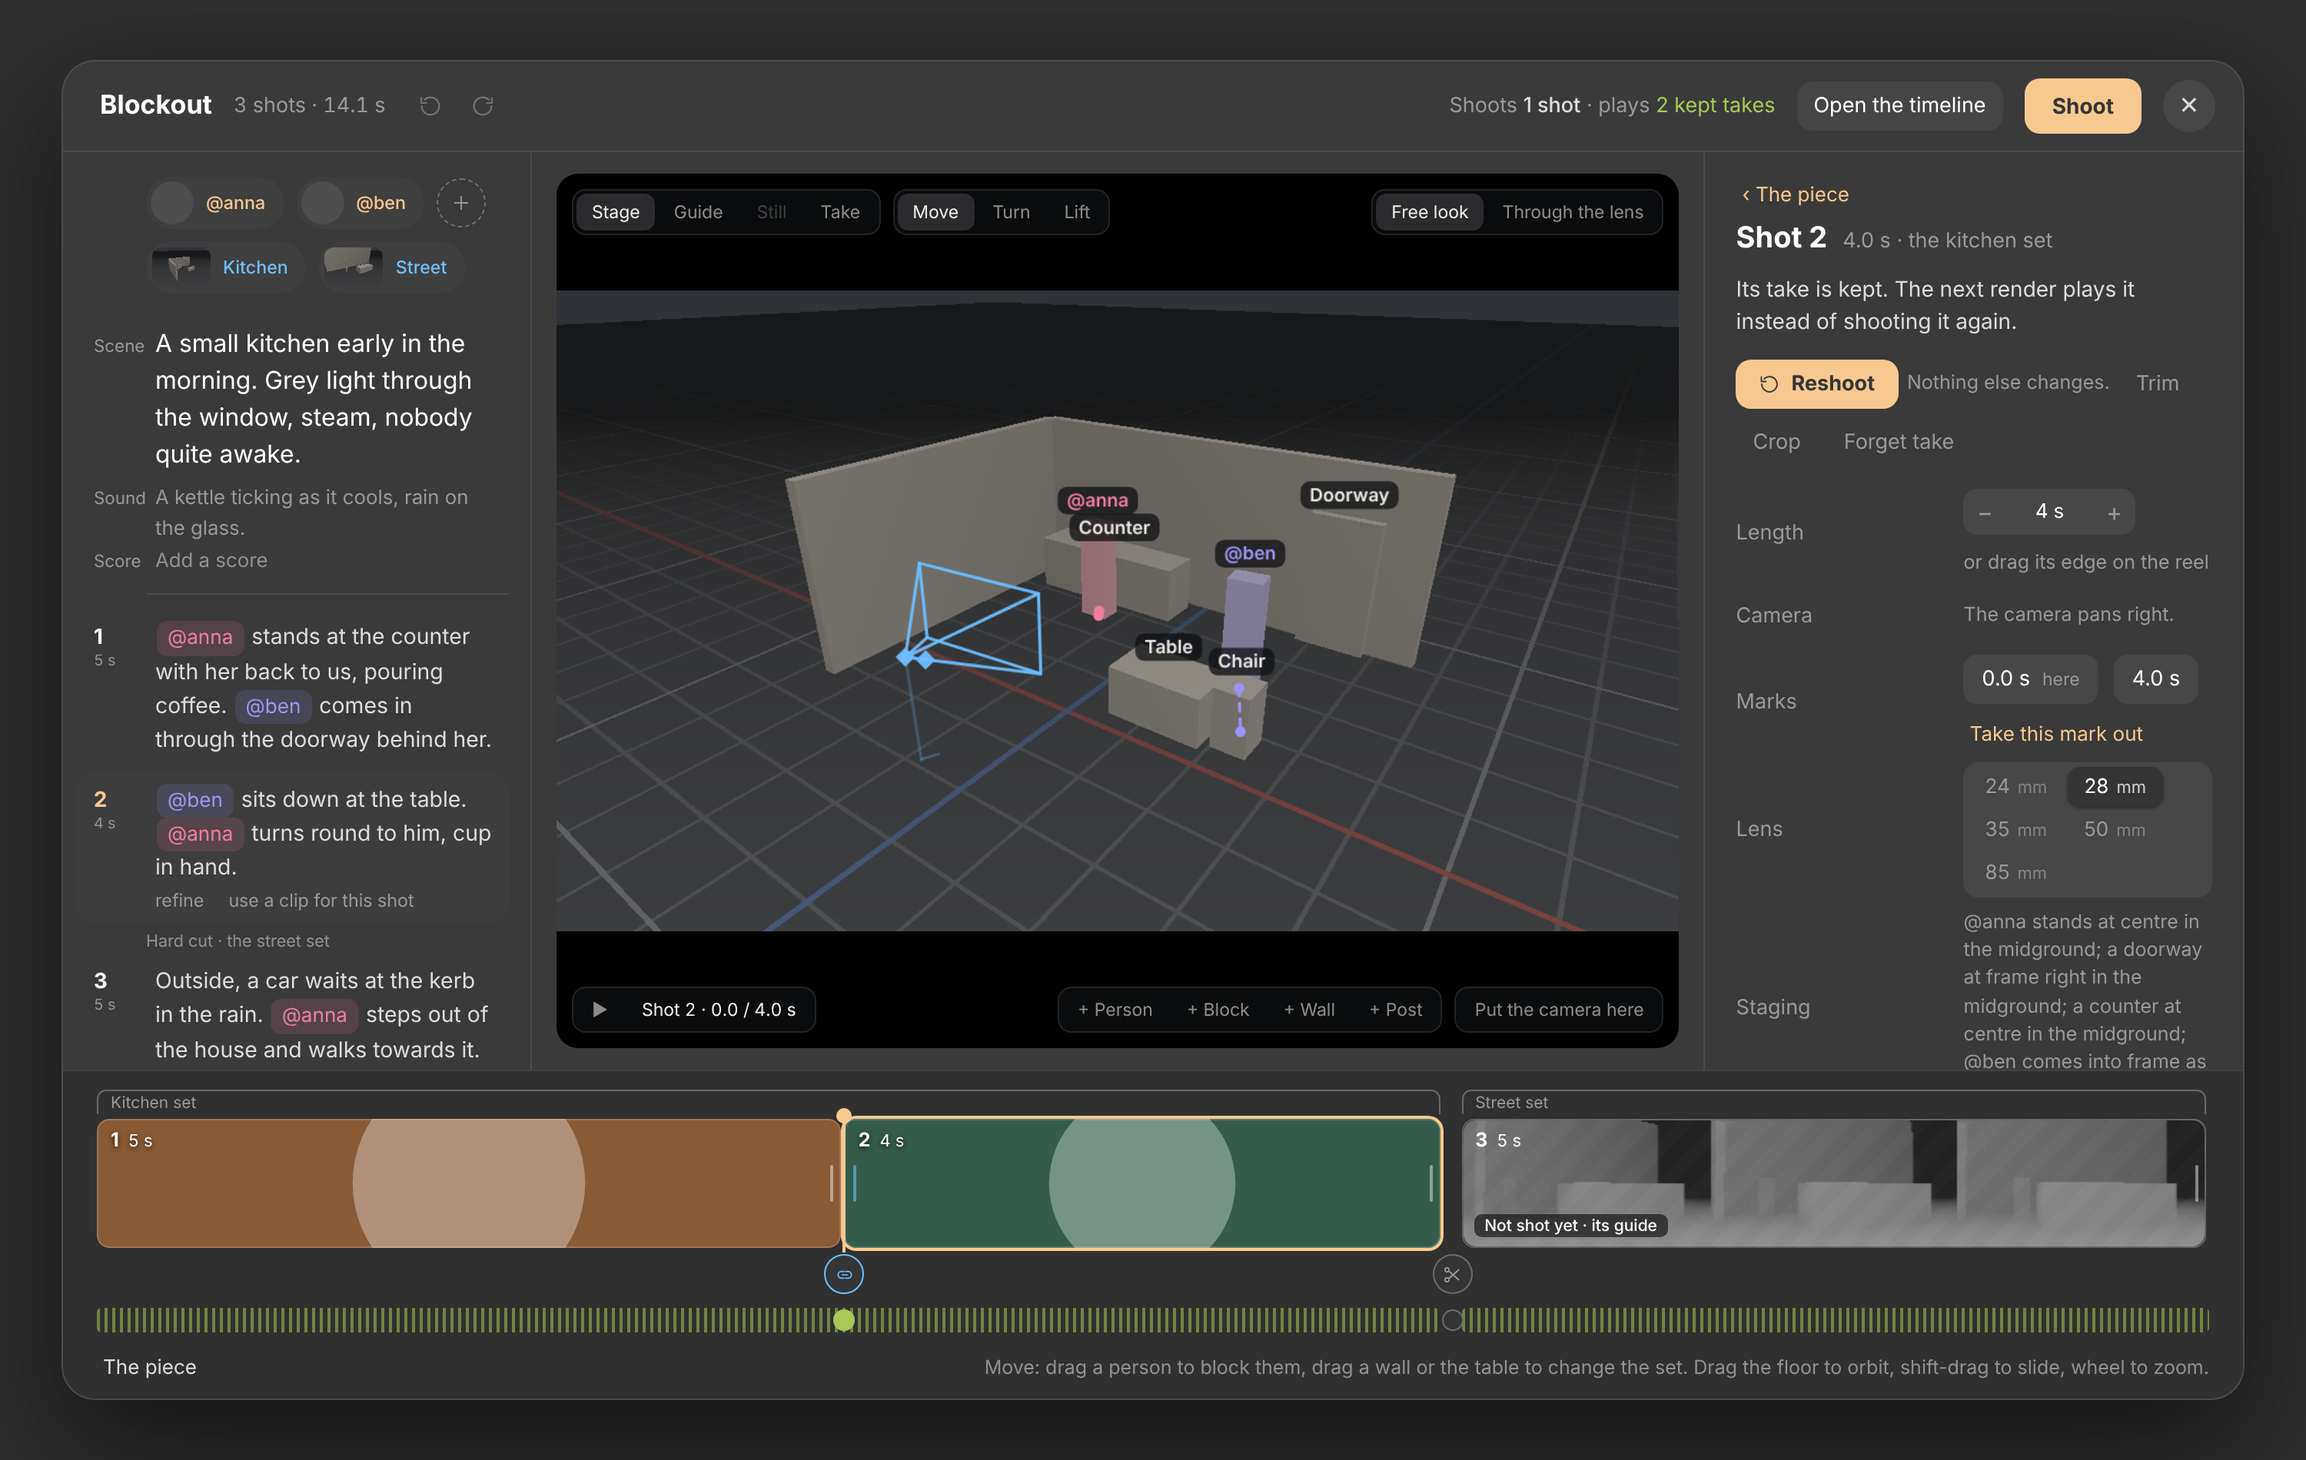
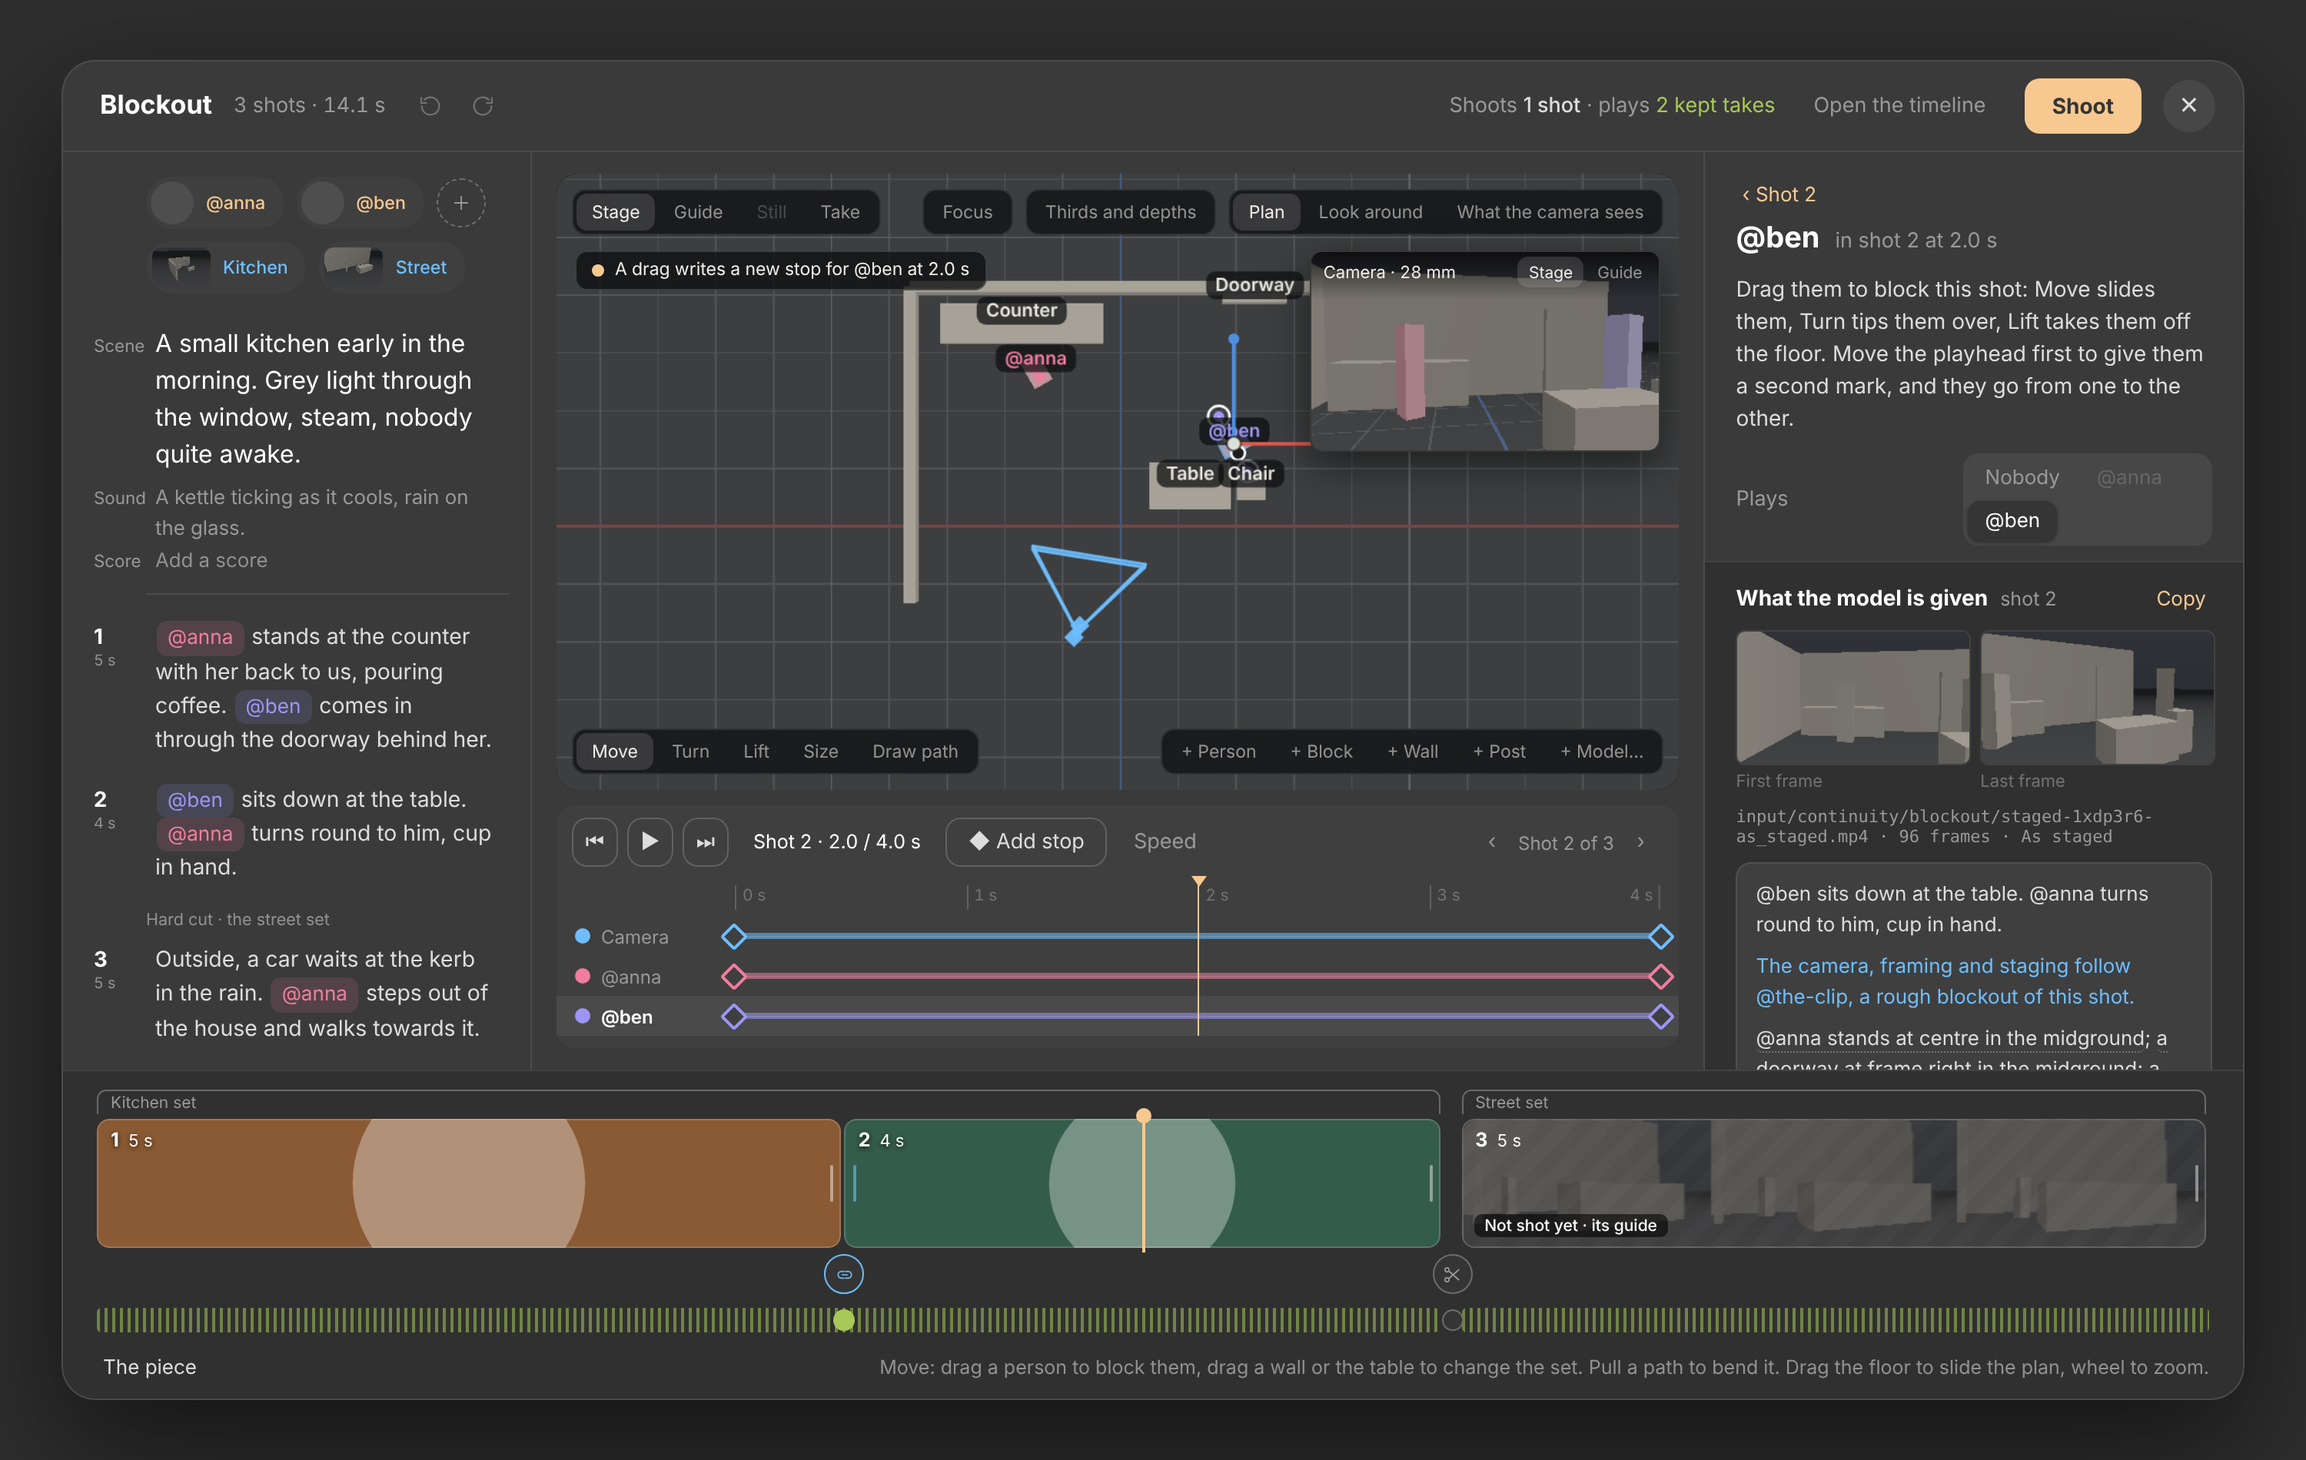
Say how the blockout is worked by hand now, and test it
The tools page, the changelog and the bench's picture follow the plan, the
sheet of stops, Draw path, the panel and the labelled pass. Browser checks
cover each, and the stale check of a grey guide on a family that is shown
its blockout as footage is replaced.

diff --git a/web/creator/styles/staging.js b/web/creator/styles/staging.js
@@ -125,11 +125,11 @@ export const css = `
 .mmc-st-sheethead .mmc-reel-btn[aria-pressed="true"] { color: var(--mmc-strong); background: var(--mmc-wash-2); }
 
 /* --- what the model is given, under the inspector ----------------------------------- */
-.mmc-st-gets { flex: none; max-height: 56%; overflow: auto; display: flex; flex-direction: column; gap: 10px; padding: 14px 20px 18px;
+.mmc-st-gets { flex: none; max-height: 50%; overflow: auto; display: flex; flex-direction: column; gap: 10px; padding: 14px 20px 18px;
   border-top: 1px solid var(--mmc-line); background: color-mix(in oklab, var(--mmc-bg) 94%, var(--mmc-media-bg)); }
 .mmc-st-gets[hidden] { display: none; }
 .mmc-st-gets > * { flex: none; }
-.mmc-st-bench .mmc-reel-inspect { min-height: 30%; }
+.mmc-st-bench .mmc-reel-inspect { min-height: 38%; }
 .mmc-st-getshead { display: flex; align-items: baseline; gap: 8px; }
 .mmc-st-getshead b { font-size: calc(14px * var(--mmc-type, 1)); color: var(--mmc-strong); }
 .mmc-st-getshead span { flex: 1; font-size: calc(12.5px * var(--mmc-type, 1)); color: var(--mmc-dim); }

diff --git a/web/creator/staging.js b/web/creator/staging.js
@@ -225,7 +225,8 @@ class Blockout extends Reel {
     const { w, h } = this.raster ? { w: this.raster.w, h: this.raster.h } : guideSize(this.timeline);
     const wide = Math.max(...xs) - Math.min(...xs), deep = Math.max(...zs) - Math.min(...zs);
     return { x: (Math.min(...xs) + Math.max(...xs)) / 2, z: (Math.min(...zs) + Math.max(...zs)) / 2,
-             span: clamp(Math.max(deep, (wide * h) / w) * 1.16 + 1, 4, 150) };
+             // Room above and below for the tools that float over the glass.
+             span: clamp(Math.max(deep, (wide * h) / w) * 1.4 + 1, 4, 150) };
   }
 
   /** The plan's camera: straight down from far above through a long lens, so

diff --git a/docs/tools.md b/docs/tools.md
@@ -57,7 +57,7 @@ blockout** comes back. Nothing selected means the piece is selected. A set is
 taken off the piece from its own page in the inspector; its shots stay, with no
 staging.
 
-![The blockout bench: the script on the left, the kitchen set on the stage with @ben selected and his handles out, his blocking in the inspector, and the piece underneath with the sets over the film and shot 3's guide on its card](img/blockout.png)
+![The blockout bench: the script on the left; the kitchen set as a floor plan with @ben selected, the shot camera's frame in the corner and the sheet of stops under it; his blocking in the inspector over what the model is given; and the piece underneath with the sets over the film and shot 3's guide on its card](img/blockout.png)
 
 No model, no download, no queue for the stage itself: the renderer is
 arithmetic in the browser, and what the glass shows in **Guide** is exactly what
@@ -94,17 +94,32 @@ people walk, names), **Guide** (the pass exactly as the file will hold it),
 yet) and **Take** (what came back, at the playhead). Play runs the shot's time;
 dragging across a shot on the strip scrubs it.
 
-**Look around** flies around the set and changes nothing: drag orbits, shift-drag
-slides, the wheel zooms. **What the camera sees** stands you in the shot camera,
-where every gesture writes a camera mark at the playhead: drag turns it,
-shift-drag moves it sideways and up, the wheel moves it forward. **Put the camera here**
-moves the shot camera to where you stand.
+The set is handled from one of three places. **Plan** is the set from above, as
+a floor plan, and is where the bench opens: drag the floor to slide it, the
+wheel zooms. **Look around** flies around the set: drag orbits, shift-drag
+slides, the wheel zooms. Neither changes anything, and in both the stage is the
+whole of the glass while the shot camera's frame stays in a **monitor** in the
+corner, as the stage or as the guide; pressing it stands you in the camera.
+**What the camera sees** is that: every gesture writes a camera stop at the
+playhead, drag turns it, shift-drag moves it sideways and up, the wheel moves it
+forward. **Put the camera here**, in Look around, moves the shot camera to where
+you stand.
+
+A **badge** on the glass says what a drag is about to do before it does it:
+move the stop the playhead is on, or write a new one where it is not; and that
+a table or a wall is the set, so moving it changes every shot staged on it.
+
+**Thirds and depths** draws the lines the staging sentence is read from: the
+two that part frame left, centre and frame right, and the two depths where the
+foreground and the midground end.
 
 Click a piece to select it; its handles hang off it. **Move** (`1`) slides it
 along the world axes or, dragged by its body, across the floor; **Turn** (`2`)
 gives it three rings that snap to 15°; **Lift** (`3`) takes it off the floor.
-Dragging a person writes a mark at the playhead, so move the playhead first to
-give them a second mark. A piece rests by itself: whichever way up it is, its
+Dragging a person writes a stop at the playhead, so move the playhead first to
+give them a second one, or use **Draw path** (`5` or `P`): each click on the
+floor is the next stop of whoever is selected, or of the camera when nobody is,
+and the stops are spread at one pace over the shot. Escape puts the tool down. A piece rests by itself: whichever way up it is, its
 lowest point sits at its height off the floor, so a figure laid flat lies on
 it. **+ Person**, **+ Block**, **+ Wall** and **+ Post** add to the set, and
 Delete takes the selection off it.
@@ -122,7 +137,8 @@ where its camera starts, with people in it and a camera move. Pressing one makes
 new set from it; everything on it can then be moved, changed or taken away.
 
 **Focus** (or F) gives the stage the whole window: the script and the strip fold
-away, the tools float over the picture, and the camera's speed lane stays under it.
+away, the tools float over the picture, and the sheet of stops stays under it, with
+the way to the shot before and the next.
 The inspector becomes a drawer that slides in when a piece or a set is picked; **I**
 or **Inspector** shows it or puts it away. Shift+F hides the browser's own bars as
 well. Escape leaves focus first, and the window opens as it was last left.
@@ -157,8 +173,16 @@ sees, in Guide and in the file; the path stays smooth. The same shot always
 shakes the same way until **Another shake**, and a shot continuing from another
 goes on with its shake.
 
-Under the glass is the **speed** of whoever is selected, or of the camera. Each
-stop keeps its time; the curve says how fast the stretch between two is taken,
+Under the glass is the **sheet of stops**: a lane for the camera, for everyone on
+the set and for whatever moves in the shot, a diamond for each stop, and one
+playhead through them all. Drag a diamond to change when; double-click a lane to
+add a stop there; press anywhere else on it to move the playhead, which snaps to
+a stop. **Add stop** (`K`) makes one at the playhead for whoever is selected, or
+the camera, and `,` and `.` step from stop to stop. The arrows at its right go
+to the shot before and the next.
+
+**Speed** opens the speed of whoever is selected, or of the camera, under the
+sheet. Each stop keeps its time; the curve says how fast the stretch between two is taken,
 and dragging a point up there slows it elsewhere, so it still arrives when it
 did. The buttons take the stretch the playhead is in: **Natural**, **Steady**,
 **Start gently**, **Stop gently**, **Rush in**, **Rush off**. **Wait until here**
@@ -168,17 +192,26 @@ else moves the playhead.
 
 ### What a shot sends
 
+Under the inspector, whatever is selected, is **What the model is given** for
+the shot on the glass: the first and the last frame of its clip as the file
+will hold them, the file, and the words. Pointing at a clause of the words
+lights the piece it is about, pressing it selects that piece, and a clause the
+last edit changed is lit for a moment. The words are read off the first and the
+last frame alone; stops in between, bends and speed reach the model only as the
+clip.
+
 | | |
 |---|---|
 | The guide | a clip along the shot camera's path, at the family's native canvas and frame grid, in the shot's pass. Written under `input/continuity/blockout/` by Shoot, named after the shot's staging so an unchanged shot reuses it, and attached as the shot's guide. Families without a ControlNet get the words alone |
-| The words | who stands where, in their posture, and how the camera moves, in the model's own words, added after the shot's prose (refined or not) |
+| The words | who stands where, in their posture, and how the camera moves, in the model's own words, added after the shot's prose (refined or not). **Words** chooses: **Yours, then the staging** is that, and **Yours only** sends the shot's prose and nothing the bench wrote about the scene, for the piece or for one shot. Where the clip is a reference video, the one line that names it stays, because a clip is only followed where the words name it |
 | How firmly | **Firmly** (1.0) or **Loosely** (0.6); a shot whose people change posture or leave the floor suggests loose |
 
-Four passes, the ControlNet bench's own names:
+Five passes, four of them the ControlNet bench's own names:
 
 | Pass | What it writes |
 |---|---|
 | As staged | no tracing, just the clay render itself, as footage |
+| Labelled | the stage as you see it: the clay, the cast in their colours, and the name of every named piece drawn into the frame. For a family that is shown the blockout as a reference video; the line that names the clip then says its colours and name tags are labels and not part of the picture |
 | Depth | near bright, far dark, taken from the geometry, so nothing is guessed |
 | Blocks | each piece one flat field of colour |
 | Lines | the set's edges, white on black |
@@ -191,13 +224,17 @@ A person can **Play** a cast member and a thing can be **Called** a word
 ("table", "doorway"). Named pieces are written into the staging: *"@anna is
 lying on the floor at centre in the midground; a table at frame left in the
 foreground; @anna ends standing. The camera pushes in toward @anna at slow
-speed."* No model reads identity out of pixels, so the words are the
-mechanism. **Copy** hands you them for any other prompt.
+speed."* A depth map says nothing of who is who, so there the words are the
+mechanism. **Labelled** with **Yours only** is the other way round: the clip
+itself says who and what each block is, and the words are only the ones you
+wrote. Whether a model paints the name tags into its picture, or the cast's
+colours onto their clothes, has not been measured yet. **Copy** hands you what
+the bench adds for any other prompt.
 
 ### Takes and joins
 
 What releases a take is the reel's rule with staging added: a change to a
-shot's camera marks, a person's marks in it, its pass or how firmly it holds
+shot's camera marks, a person's marks in it, its pass, whose words it sends or how firmly it holds
 releases that shot and the shots that continue from it; a change to a set
 releases every shot staged on it; looking around, selecting, scrubbing and
 switching views release nothing.

diff --git a/CHANGELOG.md b/CHANGELOG.md
@@ -6,6 +6,26 @@ exactly as it was written, wall of text and all.
 
 ## Unreleased
 
+**The blockout is easier to work by hand.** The set opens as a floor plan, with
+Look around and What the camera sees beside it, and the shot camera's frame stays in
+a corner while you work, as the stage or as the guide. Under the glass every mover
+has a lane and every stop a diamond: drag one to change when, double-click a lane to
+add one, and K, comma and full stop make and walk them. **Draw path** (5 or P) lays a
+walk by clicking the floor. A badge says whether a drag will move a stop or write a
+new one, **Thirds and depths** draws the lines the staging sentence is read from, and
+the speed lane opens from **Speed**.
+
+**What the model is given is always in sight.** Under the inspector, for the shot on
+the glass: the first and last frame of its clip, the file, and the words, where a
+clause pointed at lights its piece and a clause an edit changed is lit for a moment.
+
+**A staged shot can send your words alone, and a labelled blockout.** **Words: Yours
+only** sends the shot's own prose and nothing the bench wrote about the scene, for the
+piece or for one shot; with a reference clip the one line that names it stays.
+**Labelled** is a fifth pass: the stage as you see it, the cast in their colours and
+every name drawn into the frame, for a family shown the blockout as a reference video.
+Whether a model paints the tags or the colours into its picture is not measured yet.
+
 **Closing a blockout window no longer deletes another's clips.** It removes only the
 clips it used while it was open and has stopped using, not every one it does not know.
 

diff --git a/tests/browser/README.md b/tests/browser/README.md
@@ -65,8 +65,11 @@ scripts do not launch ComfyUI, touch a user browser profile, or modify project d
   Shoot deriving and attaching a guide (the frame and write routes are answered
   locally), starting a set, the handles and what each edit releases, the lens,
   the adds, joins and lining them up, Enter, the one-shot mode and its doors,
-  reading an old saved scene, Copy and the sweep on close. `SHOT=path.png`
-  writes screenshots at 2×.
+  reading an old saved scene, Copy and the sweep on close; and, handled by
+  hand, the plan and the monitor, the badge, the sheet of stops (retiming a
+  stop, adding one, stepping between them), Draw path, what the model is given
+  with whose words it sends, and the labelled pass. `SHOT=path.png` writes
+  screenshots at 2×.
 
 These are isolated browser regression tests, **not end-to-end ComfyUI tests or
 GPU/rendering validation**. Source extraction is intentionally explicit: if a
